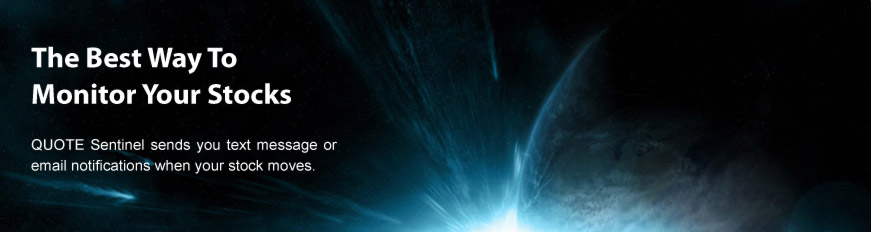
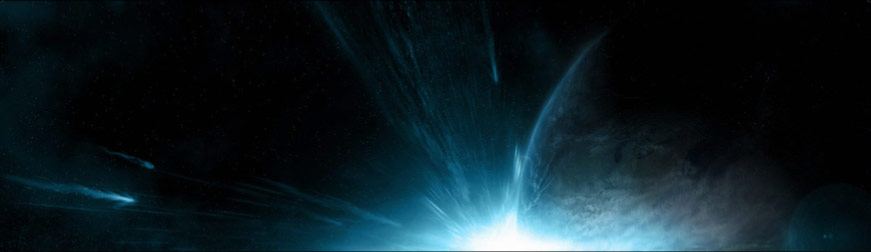
convert main top to text from a flat image

diff --git a/templates/main.html b/templates/main.html
@@ -2,10 +2,30 @@
 
 {% block extrahead %}
 <style>
-.main { margin: -5px -10px; height: 313px;
-    position: relative; background: url('/static/images/main_image.jpg') no-repeat; }
-.main-top { width: 100%; height: 3px; top: -3px;
-    position: absolute; background: url('/static/images/main_image_top.png') no-repeat; }
+.main {
+    -moz-border-radius-topleft: 3px;
+    color: white;
+    margin: -5px -10px; height: 313px;
+    position: relative; background: transparent url('/static/images/main_image.jpg') no-repeat scroll 50% -3px; }
+.main > h2 {
+  font-family: Arial;
+  font-size: 28px;
+  font-weight: bold;
+  left: 32px;
+  line-height: 38px;
+  position: absolute;
+  top: 36px;
+  width: 333px;
+}
+.main > h3 {
+  font-family: Arial;
+  font-size: 15px;
+  left: 32px;
+  line-height: 1.5em;
+  position: absolute;
+  top: 132px;
+  width: 318px;
+}
 .main-screen { width: 457px; height: 254px; top: 32px; left: 382px; z-index: 100;
     position: absolute; background: url('/static/images/main_screenshot.jpg') no-repeat; }
 .main-stripe { width: 100%; height: 81px; bottom: 0; left: -12px; padding: 0 12px;
@@ -17,14 +37,15 @@
 {% endblock %}
 
 {% block content %}
-<div class="main">
-    <div class="main-top"></div>
+<section class="main">
+    <h2>The Best Way To Monitor Your Stocks</h2>
+    <h3>QUOTE Sentinel sends you text message or email notifications when your stock moves.</h3>
     <div class="main-screen"></div>
     <div class="main-stripe">
         <a href="{% url monitor.views.register 'free' %}"></a>
         <p style="color:white;">It only takes 30 seconds<br/>and it's 100% FREE !</p>
     </div>
-</div>
+</section>
 
 {% include "main_include.html" %}
 {% endblock %}
